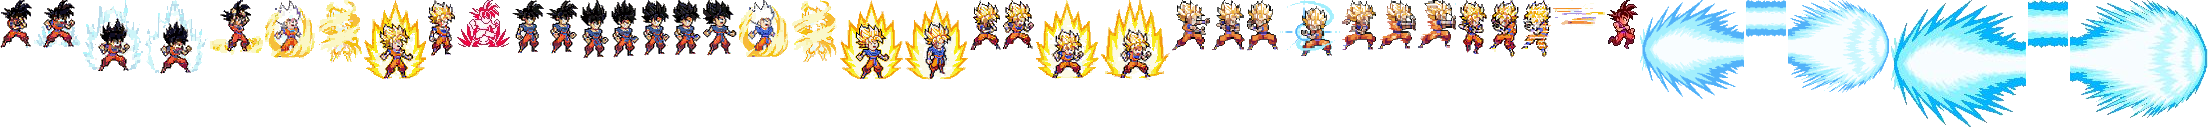
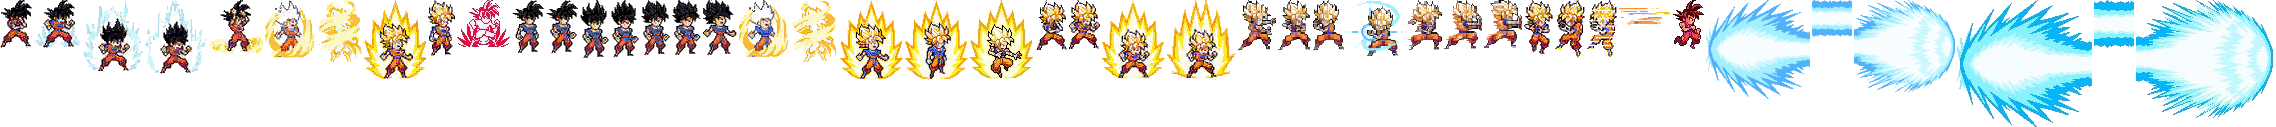
Spirit Bomb rises into the sky again, turns him only from the air, with a real transformation
- Base Goku's Spirit Bomb from the ring: he rises up into the sky as it gathers and throws it from
  there, and stays himself (no Super Saiyan cutscene); from the air it is the one that turns him
- When that one lands he transforms in the air (white hair, the gold swirl, solid gold flames) and
  then floats in gold as it goes off, instead of a flickering outline; SUPER SAIYAN! shows under him
- Turning Super Saiyan with T builds up first (the stance, the blue aura three times) before the
  flash; in the middle of a combo it plays a quicker version
- Spirit Bomb GIF recorded again from the game; checks updated for the ring and air Spirit Bombs

diff --git a/data.js b/data.js
@@ -223,7 +223,10 @@ const GOKU_BASE = formAnims(GOKU_MOVES, 'base');
 // crouch, the white flash, the gold swirl and the flames)
 GOKU_BASE.ssjBuild = nativeFr([SX_TURN[0], SX_TURN[1], SX_TURN[2], SX_TURN[3]], { fps: 6, loop: true, loopFrom: 2 });
 GOKU_BASE.ssjRise = nativeFr([SX_TURN[4], SX_TURN[5], SX_TURN[6], SX_TURN[7]], { fps: 4, loop: false });
-GOKU_BASE.transform = nativeFr([SX_TURN[0], SX_TURN[1], SX_TURN[2], SX_TURN[3], SX_TURN[2], SX_TURN[3], SX_TURN[4], SX_TURN[5], SX_TURN[6], SX_TURN[7], SX_TURN[7], SX_TURN[8]], { fps: 10, loop: false });
+GOKU_BASE.transform = nativeFr([SX_TURN[0], SX_TURN[0], SX_TURN[1], SX_TURN[1], SX_TURN[2], SX_TURN[3], SX_TURN[2], SX_TURN[3], SX_TURN[2], SX_TURN[3],
+  SX_TURN[4], SX_TURN[5], SX_TURN[6], SX_TURN[7], SX_TURN[7], SX_TURN[8]], { fps: 8, loop: false });
+// in the middle of a combo it's quicker (they're held reeling while it plays: see comboTransform)
+GOKU_BASE.transformQuick = nativeFr([SX_TURN[1], SX_TURN[2], SX_TURN[3], SX_TURN[4], SX_TURN[5], SX_TURN[6], SX_TURN[7], SX_TURN[7], SX_TURN[8]], { fps: 9, loop: false });
 
 // Gi top torn off. The newer sheet draws some of it itself (the Spirit Bomb)
 // turning Super Saiyan with the gi top torn, as the torn-gi Super Saiyan sheet draws it (its top row):
@@ -238,9 +241,11 @@ Object.assign(GOKU_BASE_T, {
   spiritThrow: nativeFr([GBN(305, 1985, 38, 52), GBN(361, 1990, 38, 47)], { fps: 5, loop: false }),
   // the Spirit Bomb that turns him Super Saiyan: as it lands the gold outline bursts off him and the
   // flames go up (the frames after the throw on the sheet)
-  spiritSsj: nativeFr([{ ...GB(415, 1979, 38, 60), hollow: true }, { ...GB(415, 1979, 38, 60), hollow: true }, { ...GB(463, 1958, 65, 82), hollow: true },
-    { ...GB(463, 1958, 65, 82), hollow: true }], { fps: 5, loop: false }),
-  transform: nativeFr([...TORN_TURN, TORN_TURN[10]], { fps: 8, loop: false }),
+  // (white hair, the gold swirl, then the gold flames in the air: the sheets' own frames)
+  // (the flames solid: cut see-through their middle looked patchy)
+  spiritSsj: nativeFr([TORN_TURN[7], TORN_TURN[7], TORN_TURN[8], TORN_TURN[8], GB(463, 1958, 65, 82), GB(463, 1958, 65, 82)], { fps: 5, loop: false }),
+  transform: nativeFr([TORN_TURN[0], TORN_TURN[0], ...TORN_TURN, TORN_TURN[10]], { fps: 8, loop: false }),
+  transformQuick: nativeFr([...TORN_TURN.slice(3), TORN_TURN[10]], { fps: 9, loop: false }),
   ssjBuild: nativeFr(TORN_TURN.slice(0, 7), { fps: 6, loop: true, loopFrom: 4 }),
   ssjRise: nativeFr(TORN_TURN.slice(7, 11), { fps: 4, loop: false }),
 });

diff --git a/tools/checks.js b/tools/checks.js
@@ -285,12 +285,13 @@
     },
 
     // he used to rise into the sky for it; the sheet draws him standing under it
-    'the Spirit Bomb is gathered standing on the ring, as big as he is': async () => {
+    // (it used to be gathered standing on the ring; he rises into the sky with it, as it first was)
+    'the Spirit Bomb is gathered up in the sky, as big as he is, on screen': async () => {
       scene({ gap: 160 });
       player.ki = 100; spiritBomb(player);
-      let floated = false;
-      await tick(80, () => { if (player.y < FLOOR - 1) floated = true; });
-      expect(!floated, 'he left the ring while gathering it');
+      let top = FLOOR;
+      await tick(80, () => { top = Math.min(top, player.y); });
+      expect(FLOOR - top > 30, 'he only rose ' + Math.round(FLOOR - top) + ' px off the ring while gathering it');
       expect(game.spirit && game.spirit.r > 30, 'the bomb is ' + (game.spirit ? game.spirit.r.toFixed(0) : 'gone') + ' px across its radius');
       expect(game.spirit.y - game.spirit.r > 0, 'the top of the bomb is off the screen');
     },
@@ -366,18 +367,12 @@
       expect(game.mode === 'fight', 'the fight did not carry on (' + game.mode + ')');
     },
 
-    // (it used to be the ordinary one from the ring; now every Spirit Bomb that lands turns him)
-    'the Spirit Bomb from the ring turns him Super Saiyan as it lands, with no music change': async () => {
+    'the Spirit Bomb from the ring is the ordinary one: no Super Saiyan': async () => {
       scene({ gap: 110 });
       player.ki = 100;
-      const was = Audio8.music.switchTo; let switched = false;
-      Audio8.music.switchTo = (...a) => { switched = true; return was.apply(Audio8.music, a); };
-      try {
-        hold(P1, 'ult', true); await tick(2); hold(P1, 'ult', false);
-        await tick(420);
-      } finally { Audio8.music.switchTo = was; }
-      expect(goku.form === 'ssj', 'he is still ' + goku.form);
-      expect(!switched, 'the music changed when the bomb turned him');
+      hold(P1, 'ult', true); await tick(2); hold(P1, 'ult', false);
+      await tick(420);
+      expect(goku.form === 'base', 'he turned ' + goku.form);
     },
 
     // thrown from the air, he used to fall to the ring before the bomb landed, and turn down there

diff --git a/index.html b/index.html
@@ -40,29 +40,29 @@
 <body>
 <svg id="game"></svg>
 <div class="preload">a<b>a</b></div>
-<script src="frames.js?v=160"></script>
-<script src="gfx.js?v=160"></script>
-<script src="goku-forms.js?v=160"></script>
-<script src="data.js?v=160"></script>
-<script src="fx.js?v=160"></script>
-<script src="audio.js?v=160"></script>
-<script src="stage.js?v=160"></script>
+<script src="frames.js?v=163"></script>
+<script src="gfx.js?v=163"></script>
+<script src="goku-forms.js?v=163"></script>
+<script src="data.js?v=163"></script>
+<script src="fx.js?v=163"></script>
+<script src="audio.js?v=163"></script>
+<script src="stage.js?v=163"></script>
 <!-- the game itself, split by system; plain scripts sharing one global scope, so the order matters -->
-<script src="game/core.js?v=160"></script>
-<script src="game/input.js?v=160"></script>
-<script src="game/fighters.js?v=160"></script>
-<script src="game/combat.js?v=160"></script>
-<script src="game/fighter-update.js?v=160"></script>
-<script src="game/player.js?v=160"></script>
-<script src="game/boss-ai.js?v=160"></script>
-<script src="game/projectiles.js?v=160"></script>
-<script src="game/cinematics.js?v=160"></script>
-<script src="game/cutscenes.js?v=160"></script>
-<script src="game/menus.js?v=160"></script>
-<script src="game/results.js?v=160"></script>
-<script src="game/loop.js?v=160"></script>
-<script src="game/render.js?v=160"></script>
-<script src="game/main.js?v=160"></script>
-<script src="net.js?v=160"></script>
+<script src="game/core.js?v=163"></script>
+<script src="game/input.js?v=163"></script>
+<script src="game/fighters.js?v=163"></script>
+<script src="game/combat.js?v=163"></script>
+<script src="game/fighter-update.js?v=163"></script>
+<script src="game/player.js?v=163"></script>
+<script src="game/boss-ai.js?v=163"></script>
+<script src="game/projectiles.js?v=163"></script>
+<script src="game/cinematics.js?v=163"></script>
+<script src="game/cutscenes.js?v=163"></script>
+<script src="game/menus.js?v=163"></script>
+<script src="game/results.js?v=163"></script>
+<script src="game/loop.js?v=163"></script>
+<script src="game/render.js?v=163"></script>
+<script src="game/main.js?v=163"></script>
+<script src="net.js?v=163"></script>
 </body>
 </html>

diff --git a/game/player.js b/game/player.js
@@ -25,7 +25,7 @@ function cancel(g, foe, dashDir) {
   // while they're still reeling
   if (isGoku && g.form !== 'ssj' && g.ki >= 100 && act('transform')) { comboTransform(g, foe); return true; }
   if (!isGoku && g.form === 'perfect' && g.ki >= 100 && act('ult')) { solarKame(g); return true; }
-  if (isGoku && g.form === 'base' && g.ki >= 100 && act('ult')) { spiritBomb(g, true, false, true); return true; }
+  if (isGoku && g.form === 'base' && g.ki >= 100 && act('ult')) { spiritBomb(g, true); return true; }
   if (!isGoku && g.form === 'perfect' && g.ki >= 35 && g.assistCd <= 0 && act('junior')) { g.ki -= 35; g.assistCd = 3; callJunior(g); return true; }
   if (g.ki >= 15 && act('vanish')) { g.ki -= 15; teleport(g, foe); return true; }
   if (!isGoku && g.ki >= CANNON_KI && act('cannon')) { g.ki -= CANNON_KI; specialBeamCannon(g); return true; }
@@ -172,8 +172,9 @@ function playerInput(dt, g = player, foe = boss) {
     if (g.ki >= 100 && act('ult')) {
       // Super Saiyan: the Dragon Fist in his full gi, the rush into a Kamehameha with the top torn off
       if (isGoku && g.form === 'ssj') return g.torn ? superRush(g) : startUlt(g);
-      // (on the ring too: it's the Spirit Bomb that turns him Super Saiyan as it lands)
-      if (isGoku && g.form === 'base') return spiritBomb(g, false, false, true);
+      // (from the ring it's the ordinary one: he rises into the sky to gather it, and stays himself;
+      // only from the air does it turn him Super Saiyan)
+      if (isGoku && g.form === 'base') return spiritBomb(g);
       if (!isGoku && g.form === 'perfect') return solarKame(g);
     }
     if (dir) {

diff --git a/game/combat.js b/game/combat.js
@@ -453,6 +453,8 @@ function fireKame(f) {
 const SPIRIT_GATHER = 1.5, SPIRIT_R = 36, SPIRIT_DMG = 45;
 // Thrown from the sky (a Super Saiyan powering down in mid-air for it) he hangs this far above the ring.
 const SPIRIT_HEIGHT = 26;
+// how high he rises from the ring to gather the Spirit Bomb
+const SPIRIT_RISE = 48;
 // Out of a combo (a landed hit, then O at full ki) it's a finisher: a quick gather while the hit
 // leaves them dazed, a faster throw, and it crushes them even if they're already down.
 const SPIRIT_COMBO_GATHER = 0.6, SPIRIT_COMBO_SPEED = 300;
@@ -464,8 +466,9 @@ const SPIRIT_PURE = 1.25;
 function spiritBomb(f, combo = false, pure = false, turn = false) {
   const gather = combo ? SPIRIT_COMBO_GATHER : SPIRIT_GATHER;
   if (turn && !f.torn) tearGi(f);
-  // on the ring he stays on it; started in the air he hangs where he is
-  f.ki = 0; f.vx = 0; f.vy = 0; f.floating = f.y < FLOOR - 4; f.play('spirit', 'spirit'); f.t2 = gather;
+  // he gathers it up in the sky: from the ring he rises up there as it grows (see the 'spirit' state);
+  // started in the air he hangs where he is, unless that's lower
+  f.ki = 0; f.vx = 0; f.vy = 0; f.floating = true; f.play('spirit', 'spirit'); f.t2 = gather;
   // the bomb is everyone's energy, not his: no form of his makes it hit any harder
   const mul = pure ? SPIRIT_PURE : 1;
   game.spirit = { owner: f, x: f.x, y: f.y - 70, r: 3, vx: 0, vy: 0, phase: 'gather', t: 0, boom: 0, combo, gather,

diff --git a/game/fighter-update.js b/game/fighter-update.js
@@ -246,7 +246,10 @@ function updateFighter(f, foe, dt) {
       break;
     case 'ult3': if ((f.t2 -= dt) <= 0) { f.play('idle'); f.inv = 0.3; } break;
     // arms raised while it gathers above him: feet planted on the ring, or held where he is in the sky
-    case 'spirit': f.t2 -= dt; f.vx = 0; if (f.floating) f.vy = 0; break;
+    case 'spirit':
+      f.t2 -= dt; f.vx = 0;
+      if (f.floating) { f.vy = 0; if (f.y > FLOOR - SPIRIT_RISE) f.y += (FLOOR - SPIRIT_RISE - f.y) * Math.min(1, dt * 2.5); }
+      break;
     case 'spiritThrow':
       // the Spirit Bomb that turns him: he stays up there, hunched over, until it lands (he used to fall
       // to the ring and turn Super Saiyan down there)
@@ -287,7 +290,7 @@ function goKaioken(f) {
 function comboTransform(f, foe) {
   if (f.form === 'kaioken') { setForm(f, 'base'); f.kaioCd = KAIO_REST; }
   f.ki = 50; game.wentSsj = true;
-  f.play('transform', 'transform'); f.vx = 0;
+  f.play('transformQuick', 'transform'); f.vx = 0;
   const a = f.A(), dur = a.fr.length / a.fps;
   if (foe.state === 'hurt') foe.stun = Math.max(foe.stun, dur + 0.45);
   game.comboNames.push({ text: 'SUPER SAIYAN COMBO!', t: 0 });

diff --git a/game/cinematics.js b/game/cinematics.js
@@ -373,10 +373,12 @@ async function spiritSaiyan(sb, f, foe) {
   Object.assign(f, { vx: 0, vy: 0, inv: 99, visible: true, floating: f.y < FLOOR - 4 });
   cam.focus = { f, z: 1.4 };
   f.play('spiritSsj', 'pose'); f.t2 = 99; sfx.powerup(); shake(5);
-  await wait(0.85);
+  // he turns first (white hair, the swirl, the flames), then floats there in gold as it goes off
+  { const a = f.A(); await wait(a.fr.length / a.fps); }
   finishTransform(f, false); game.wentSsj = true; // (the music carries on: a change mid-bomb sounded wrong)
   f.play('spiritFloat', 'pose'); f.t2 = 99;
-  popups.push({ text: 'SUPER SAIYAN!', x: f.x, y: Math.max(44, f.y - 70), t: 0, c: '#ffe04a' });
+  // (under him: above, with the camera in close, it ran into the timer)
+  popups.push({ text: 'SUPER SAIYAN!', x: f.x, y: Math.min(FLOOR - 4, f.y + 16), t: 0, c: '#ffe04a' });
   await wait(0.8, true);
   // and it goes off
   cam.focus = null;
